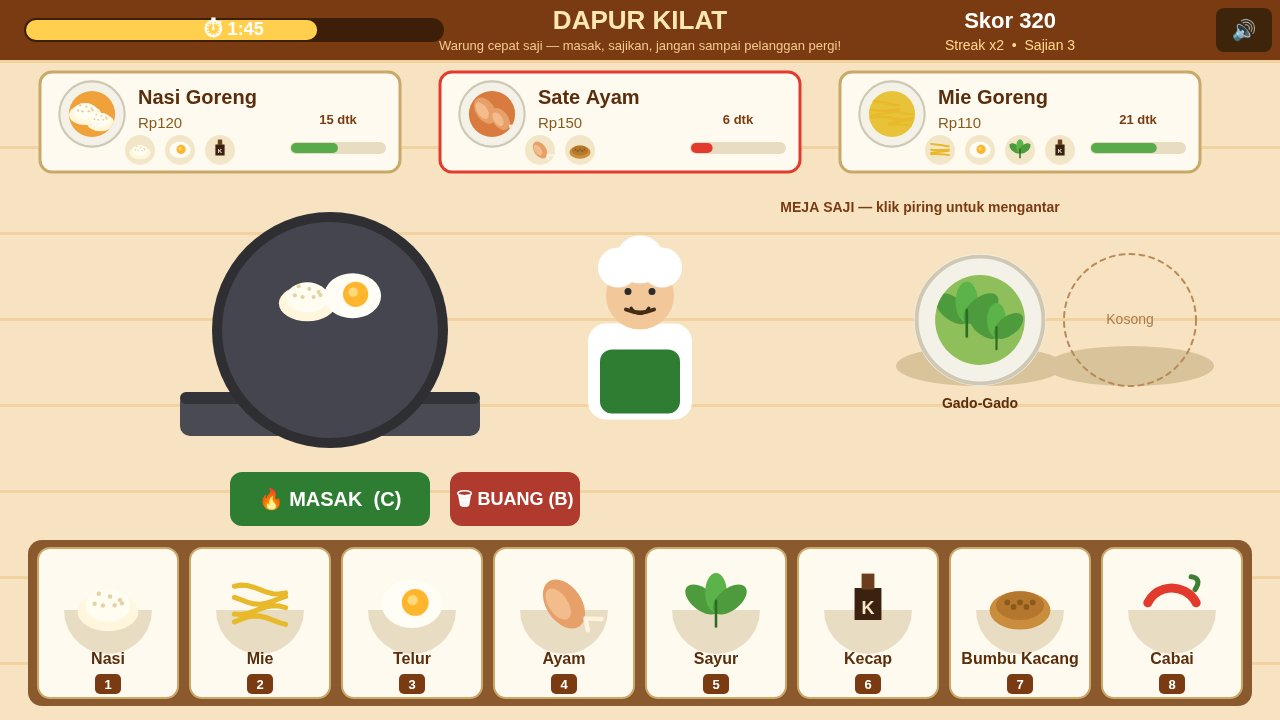
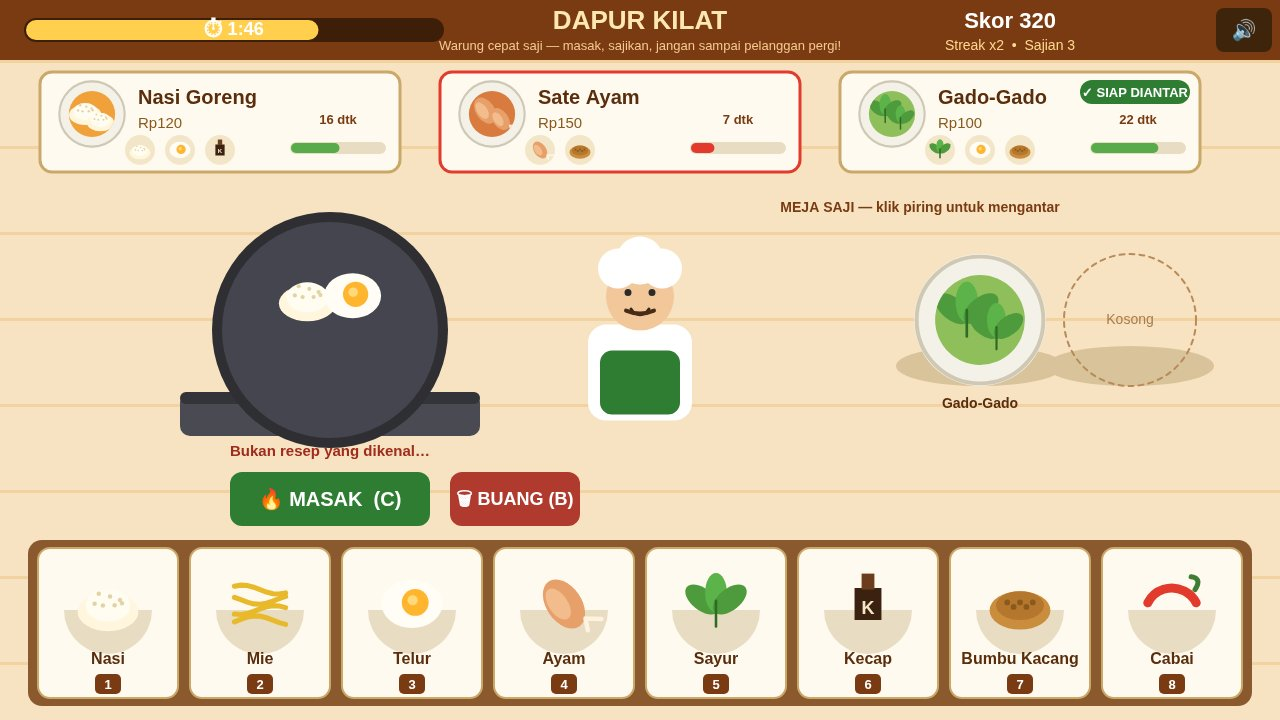
Dapur Kilat: wok preview, ready-to-serve badge, burnt toast, owner.json
- render.js: preview under the wok shows what the pan will become
  ('Akan jadi: Nasi Goreng') or warns it matches no recipe, so a wrong
  combo is caught before cooking instead of after it burns.
- render.js: order cards get a green 'SIAP DIANTAR' badge when a plate
  with that dish is waiting on the counter.
- state.js: a burnt wok now toasts why it burnt, and the seeded play
  shot uses Gado-Gado so the new badge is visible in screenshot 2.
- .makefun/owner.json: entry wallet 7J8TPg...wkAEp.
- screenshots regenerated from the live game (all < 256 KiB).

diff --git a/game/src/render.js b/game/src/render.js
@@ -14,6 +14,7 @@ import {
 } from './config.js';
 import { INGREDIENT_DRAW, drawBurnt, drawDish } from './icons.js';
 import { isMuted } from './audio.js';
+import { dishForPan } from './state.js';
 import {
   AGAIN_BTN,
   BIN_AREA,
@@ -142,6 +143,16 @@ function drawOrders(ctx, state) {
     rr(ctx, r.x + 251, r.y + 71, 94 * frac, 10, 5);
     ctx.fill();
     text(ctx, `${Math.ceil(order.patience)} dtk`, r.x + 298, r.y + 48, 13, '#7a3b12', 'bold');
+    // Ready-to-serve badge: a plate with this dish is already waiting
+    // on the counter, so the cook can see at a glance which order to
+    // serve instead of matching dish names by eye.
+    const ready = state.plates.some((p) => p.dishId === order.dishId);
+    if (ready) {
+      ctx.fillStyle = '#2e7d32';
+      rr(ctx, r.x + r.w - 120, r.y + 8, 110, 24, 12);
+      ctx.fill();
+      text(ctx, '✓ SIAP DIANTAR', r.x + r.w - 65, r.y + 21, 13, '#ffffff');
+    }
   }
 }
 
@@ -192,6 +203,16 @@ function drawStoveAndWok(ctx, state, now) {
     ctx.arc(WOK.x, WOK.y, WOK.r - 4, -Math.PI / 2, -Math.PI / 2 + frac * Math.PI * 2);
     ctx.stroke();
     text(ctx, 'Memasak…', WOK.x, WOK.y, 20, '#ffe9b0');
+  }
+  // Wok preview: tell the cook what the pan will become before they
+  // commit to cooking it — a wrong combo only shows up as burnt after.
+  if (state.cooking <= 0 && state.pan.length > 0) {
+    const dishId = dishForPan(state.pan);
+    if (dishId) {
+      text(ctx, `Akan jadi: ${DISHES[dishId].name}`, WOK.x, WOK.y + 122, 15, '#2e7d32');
+    } else {
+      text(ctx, 'Bukan resep yang dikenal…', WOK.x, WOK.y + 122, 15, '#a02c1e');
+    }
   }
 }
 

diff --git a/game/src/state.js b/game/src/state.js
@@ -135,6 +135,11 @@ export function tick(state, dt) {
       } else if (!dishId) {
         state.failed += 1;
       }
+      // A burnt wok is a teaching moment: say why it burnt instead of
+      // leaving the cook to guess which ingredient was wrong.
+      if (!dishId) {
+        showToast(state, 'Gosong! Kombinasi bahan bukan resep yang dikenal.');
+      }
     }
   }
 
@@ -195,7 +200,7 @@ export function seedShot(state, shot) {
     state.orders = [
       { id: 101, dishId: 'nasgor', patience: 18, max: 30 },
       { id: 102, dishId: 'sate', patience: 9, max: 26 },
-      { id: 103, dishId: 'miegor', patience: 24, max: 30 },
+      { id: 103, dishId: 'gado', patience: 24, max: 30 },
     ];
     state.pan = ['nasi', 'telur'];
     state.plates = [{ dishId: 'gado', born: 40 }];
